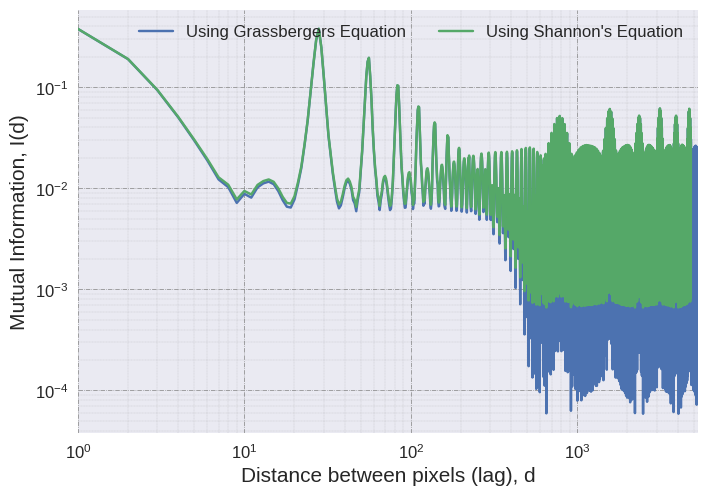
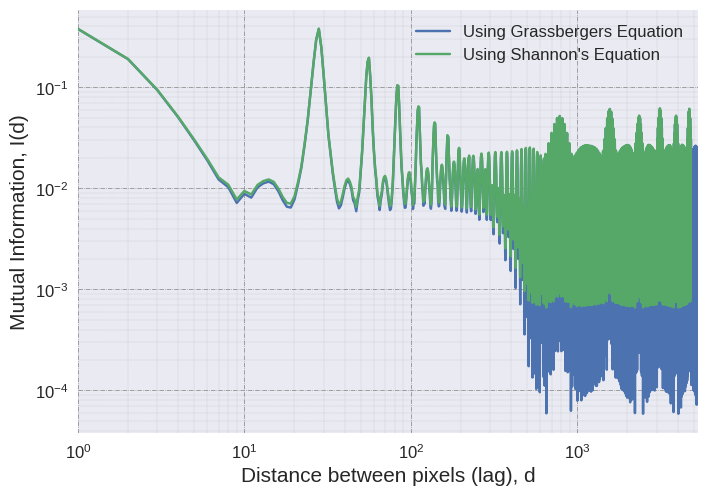
Up new

Changed region(s): [[0.1867, 0.0302, 0.9335, 0.121]]

diff --git a/paper_related/mnist/plot_mi.py b/paper_related/mnist/plot_mi.py
@@ -65,6 +65,6 @@ with plt.style.context(('seaborn')):
     print(ax.get_ylim())
     ax.set_xlabel('Distance between pixels (lag), d', fontsize=15)
     ax.set_ylabel('Mutual Information, I(d)', fontsize=15)
-    lgd = ax.legend(loc='upper right', shadow=True, fancybox=True, ncol=3, numpoints=1, prop={'size': 12})
-    plt.savefig('mi_intro', bbox_extra_artists=(lgd,), bbox_inches='tight')
+    lgd = ax.legend(loc='upper right', shadow=True, fancybox=True, numpoints=1, prop={'size': 12})
+    plt.savefig('mi_intro_mnist', bbox_extra_artists=(lgd,), bbox_inches='tight')
     plt.show()
